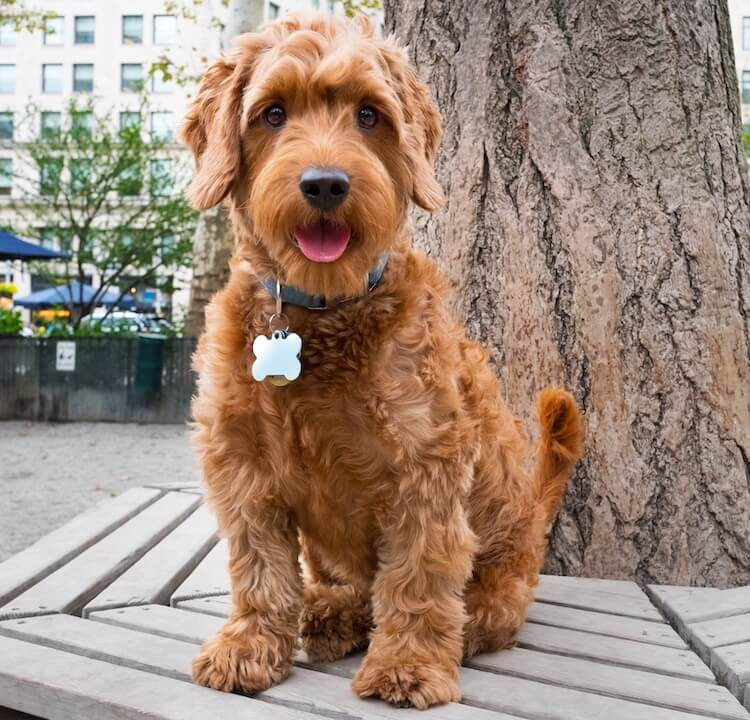
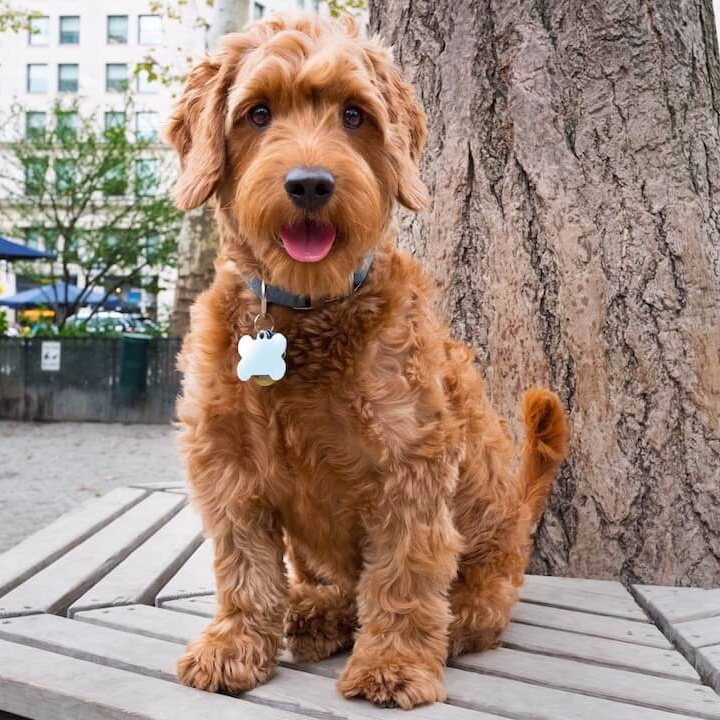
photo resize

diff --git a/charlie.html b/charlie.html
@@ -72,16 +72,16 @@
 <div class = "container-fluid">
   <div class="row">
     <div class = "col">
-      <img src="doggo1.jpg" alt="cutie" height= "220" style="width:100%">
+      <img src="doggo1.jpg" alt="cutie" style="width:100%">
     </div>
     <div class = "col">
-      <img src="doggo2.jpg" alt="cutie" height= "220" style="width:100%">
+      <img src="doggo2.jpg" alt="cutie" style="width:100%">
     </div>
     <div class = "col">
-      <img src="doggo3.jpg" alt="cutie" height= "220" style="width:100%">
+      <img src="doggo3.jpg" alt="cutie" style="width:100%">
     </div>
     <div class = "col">
-      <img src="doggo4.jpg" alt="cutie" height= "220" style="width:100%">
+      <img src="doggo4.jpg" alt="cutie" style="width:100%">
     </div>
   </div>
 </div>
